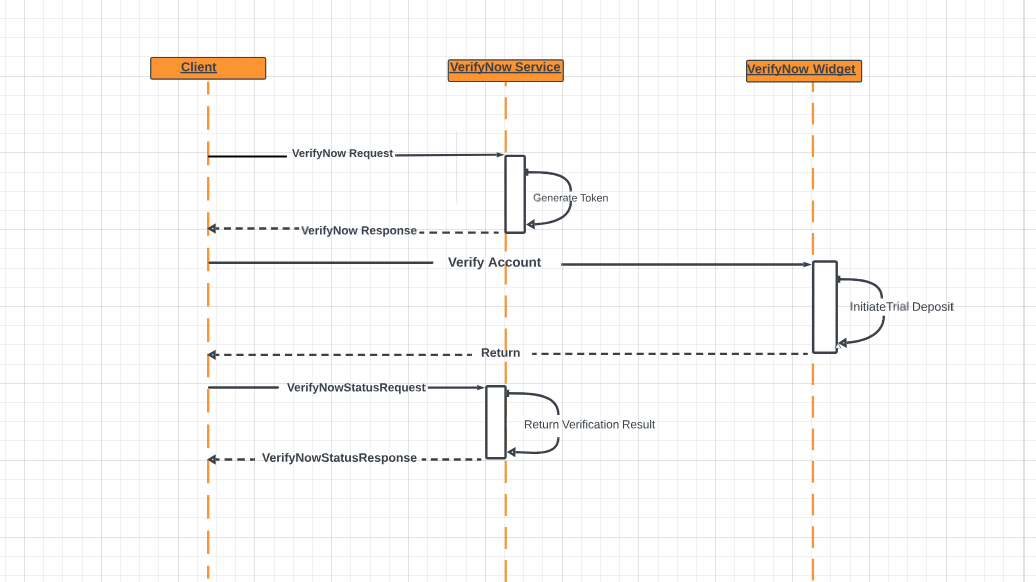
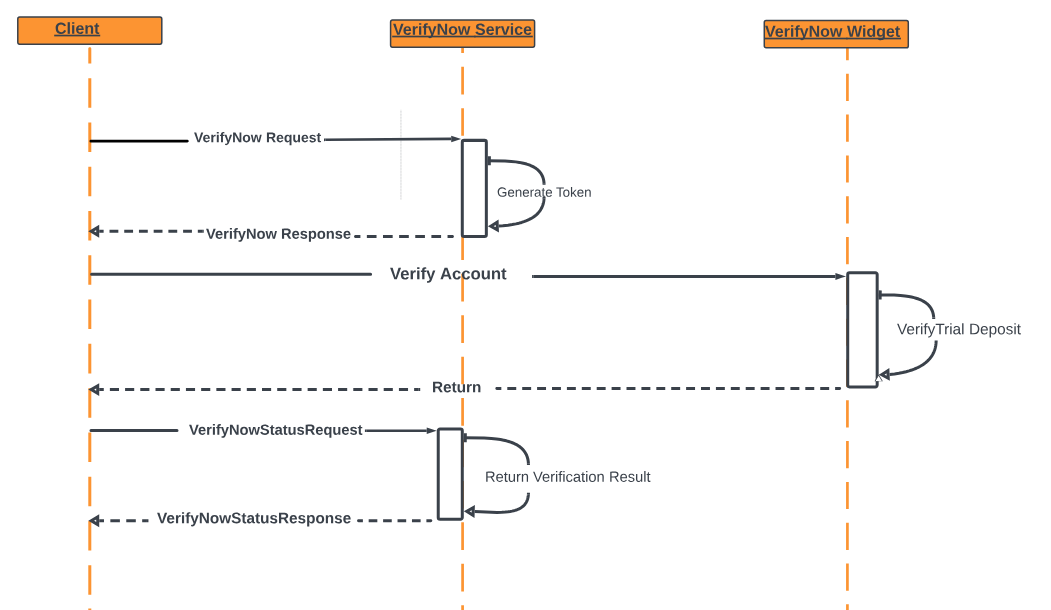
image and content changes

diff --git a/docs/verifynow-account-verification-method/real-time-verification.md b/docs/verifynow-account-verification-method/real-time-verification.md
@@ -8,14 +8,14 @@ If login is successful, VerifyNow compares the applicant’s name and account nu
 
 ![Images](../../assets/images/rtv-process-flow.png)
 
-<b>REAL TIME VERIFICATION PROCESS FLOW</b>
+<b>Real Time Verification Process Flow</b>
 </center>
 
 <center>
 
 ![Images](../../assets/images/rtv-sequence.png)
 
-<b>REAL TIME VERIFICATION SEQUENCE</b>
+<b>Real Time Verification Sequence Flow</b>
 
 </center>
 
@@ -33,7 +33,7 @@ If login is successful, VerifyNow compares the applicant’s name and account nu
 
 </center>
 
-4.	If the user selects the Real-time verification method (“Verify your bank account instantly”), VerifyNow initiates Real-time verification.  (If the user selects the Trial Deposit verification method (“Verify with bank deposits”), VerifyNow initiates Trial Deposit verification. Please see [Trial Deposit Verification](?path=docs/verifynow-account-verification-method/trial-deposit-verification.md) for more information.)
+4.	If the user selects the Real-time verification method (“Verify your bank account instantly”), VerifyNow initiates Real-time verification.  (If the user selects the Trial Deposit verification method (“Verify with bank deposits”), VerifyNow initiates Trial Deposit verification). Please see [Trial Deposit Verification](?path=docs/verifynow-account-verification-method/trial-deposit-verification.md) for more information.
 
 
 5.	The user is asked to provide their username and password for the online banking portal where the user accesses their account.

diff --git a/docs/verifynow-account-verification-method/trial-deposit-verification.md b/docs/verifynow-account-verification-method/trial-deposit-verification.md
@@ -49,7 +49,7 @@ Shown below is an example of how Trial Deposit Verification works.
 
 </center>
 
-5.	If the user selects the Trial Deposit verification method (“Verify with bank deposits”), VerifyNow initiates Trial Deposit verification. (If the user selects the Real-time verification option (“Verify your bank account instantly”), VerifyNow initiates Real-time verification. Please see [Real-Time (using FI login) Verification](?path=docs/verifynow-account-verification-method/real-time-verification.md) for more information.
+5.	If the user selects the Trial Deposit verification method (“Verify with bank deposits”), VerifyNow initiates Trial Deposit verification. (If the user selects the Real-time verification option (“Verify your bank account instantly”), VerifyNow initiates Real-time verification). Please see [Real-Time (using FI login) Verification](?path=docs/verifynow-account-verification-method/real-time-verification.md) for more information.
 
 6.	VerifyNow initiates Trial Deposit verification.
 7.	VerifyNow presents the user with instructions on how to verify the account using Trial Deposit verification.
